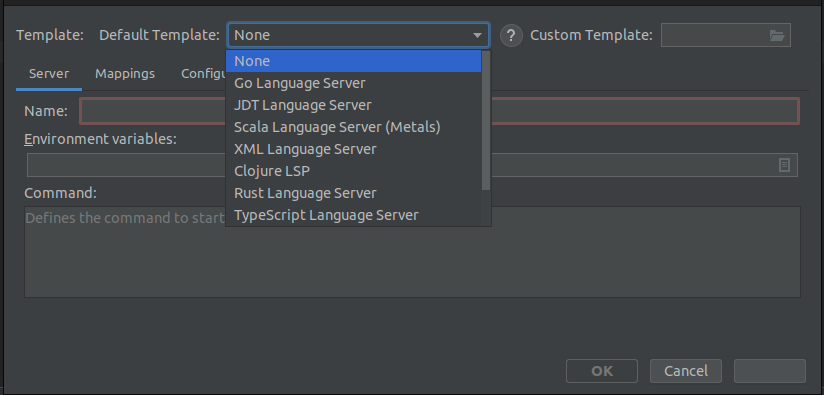
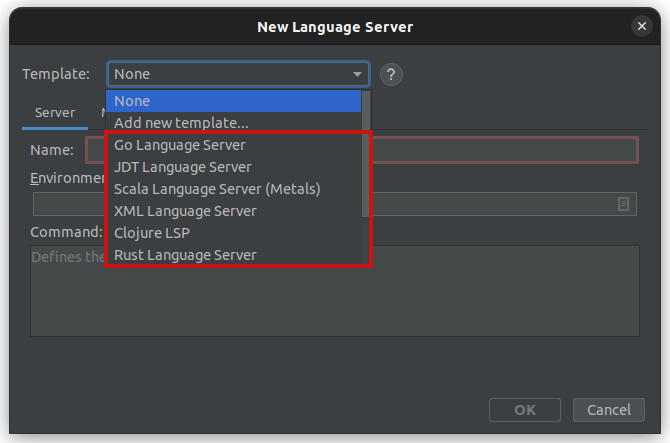
Update docs and relevant images

Changed region(s): [[0.0, 0.0, 1.0, 1.0]]

diff --git a/docs/UserDefinedLanguageServer.md b/docs/UserDefinedLanguageServer.md
@@ -94,8 +94,6 @@ with server name, command, mappings and potential configurations.
 The `Template combo-box` provides some default language servers templates (located in templates directory classpath), 
 pre-filled with server name, command, mappings and potential configuration.
 
-If the template folder contains a `README.md` file, you can press the help button to open the instructions.
-
 ![New Language Server with Default Template](./images/user-defined-ls/NewLanguageServerWithDefaultTemplate.png)
 
 * [Clojure LSP](./user-defined-ls/clojure-lsp.md)
@@ -105,9 +103,12 @@ If the template folder contains a `README.md` file, you can press the help butto
 * [Scala Language Server (Metals)](./user-defined-ls/metals.md)
 * [TypeScript Language Server](./user-defined-ls/typescript-language-server.md)
 
+If the template folder contains a `README.md` file, you can press the help button to open the instructions.
+
 #### Custom template
 
-The `Template file-selector` can be used to select a directory from the file system to load a custom language server template, 
+The `Add new template...` item from the `Template combo-box` can be used to select a directory from 
+the file system to load a custom language server template, 
 these templates can be pre-filled with server name, command, mappings and potential configuration.
 
 If the template folder contains a `README.md` file, you can press the help button to open the instructions.
@@ -116,7 +117,7 @@ If the template folder contains a `README.md` file, you can press the help butto
 
 ### Exporting templates
 
-Users can also export their own language servers to a zip file. This can be done from the LSP console, 
+Users can export their own language servers to a zip file. This can be done from the LSP console, 
 by selecting one or more language servers and selecting the export option from the context menu.
 
 ![Export Language Servers to a Zip](./images/user-defined-ls/ExportUserDefinedLanguageServer.png)
@@ -129,4 +130,4 @@ Each folder contains the following files:
 - `settings.json`
 - `initializationOptions.json`
 
-You can also manually add a `README.md` file to the folder to provide instructions for the language server.
+A `README.md` file to each of the language server folders to provide instructions for the corresponding language server.
